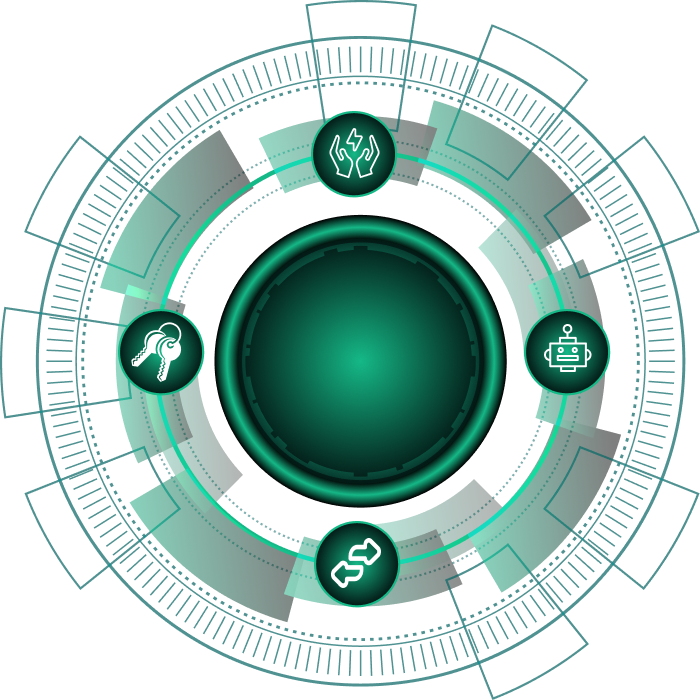
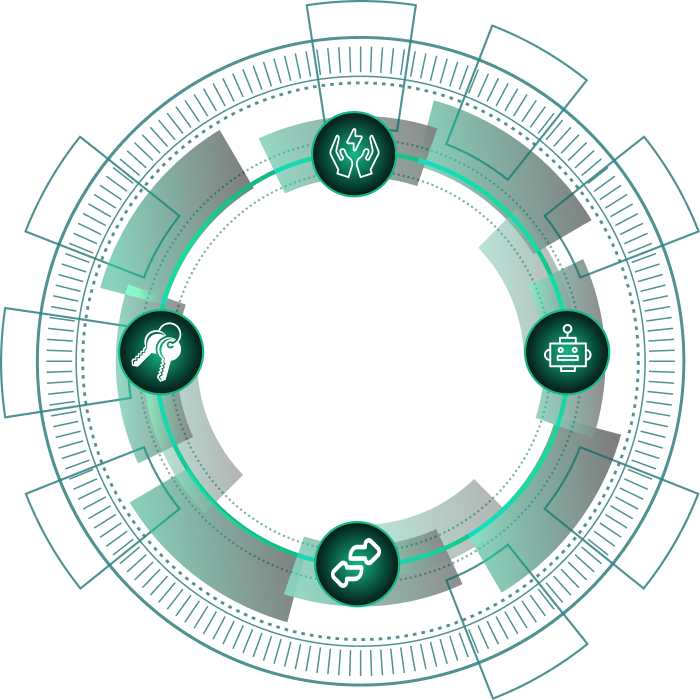
update

Changed region(s): [[0.3, 0.3, 0.75, 0.75]]

diff --git a/src/components/Wallet.jsx b/src/components/Wallet.jsx
@@ -1,8 +1,14 @@
 import React, { useState } from 'react';
-import { Col, Container, Row, Tab, Nav } from 'react-bootstrap'
-import SectionTitle from './SectionTitle'
+import { Col, Container, Row, Tab, Nav } from 'react-bootstrap';
+import SectionTitle from './SectionTitle';
 import WalletRightImg from '../assets/img/trading_wallet_right-img.png';
-export default function Wallet(){
+import Eip from '../assets/img/eip.png';
+import key from '../assets/img/key.png';
+import eip_arrow from '../assets/img/eip_arrow.png';
+import self from '../assets/img/self-icon.png';
+import automation from '../assets/img/automation_icon.png';
+
+export default function Wallet() {
     const Title = 'Security';
     const Desc ='Your Assets, Your Control. We never store your private keys.';
     const BtnText ='Read More';
@@ -20,7 +26,6 @@ export default function Wallet(){
     const BtnText4 ='Read More';
     const Btnlink4 ='https://google.com';
 
-
     const [rotationAngle, setRotationAngle] = useState('0deg');
 
     const handleTabClick = (tabKey) => {
@@ -28,12 +33,12 @@ export default function Wallet(){
         let newRotationAngle = '0deg';
 
         switch (tabKey) {
-            case 'frist':
+            case 'first':
                 newRotationAngle = '0deg';
                 break;
-                case 'second':
-                    newRotationAngle = '90deg';
-                    break;
+            case 'second':
+                newRotationAngle = '90deg';
+                break;
             case 'third':
                 newRotationAngle = '180deg';
                 break;
@@ -48,7 +53,46 @@ export default function Wallet(){
 
         setRotationAngle(newRotationAngle);
     };
-    return(
+
+    const customStyles = {
+        marginTop: 
+            rotationAngle === '0deg' ? '-9px' :
+            rotationAngle === '90deg' ? '-20px' :
+            rotationAngle === '180deg' ? '15px' :
+            rotationAngle === '270deg' ? '21px' : '0px',
+    
+        marginLeft: 
+            rotationAngle === '0deg' ? '-12px' :
+            rotationAngle === '90deg' ? '7px' :
+            rotationAngle === '180deg' ? '10px' :
+            rotationAngle === '270deg' ? '-8px' : '0px',            
+    };
+    const mediaQueryStyles = {
+        '@media (max-width: 992px)': {
+            // Apply styles for devices with a maximum width of 992px
+            marginTop: 
+                rotationAngle === '0deg' ? '-5px' :
+                rotationAngle === '90deg' ? '-9px' :
+                rotationAngle === '180deg' ? '15px' :
+                rotationAngle === '270deg' ? '21px' : '0px',
+        
+            marginLeft: 
+                rotationAngle === '0deg' ? '-5px' : 
+                rotationAngle === '90deg' ? '-12px' :
+                rotationAngle === '180deg' ? '10px' :
+                rotationAngle === '270deg' ? '-8px' : '0px',
+        },
+    };
+    
+
+    const combinedStyles = {
+        transform: `rotate(${rotationAngle})`,
+        transition: 'transform 0.5s ease-in-out',
+        ...customStyles, // Include the custom styles
+        ...mediaQueryStyles,
+    };
+
+    return (
         <div className="wallet__area" id='wallet'>
             <Container>
                 <SectionTitle 
@@ -96,29 +140,30 @@ export default function Wallet(){
                                 <img
                                     src={WalletRightImg}
                                     alt="Wallet Image"
-                                    style={{ transform: `rotate(${rotationAngle})`, transition: 'transform 0.5s ease-in-out' }}
+                                    style={combinedStyles}
                                 />
-                                <div className="all_click_icons" style={{ transform: `translate(-47%, -48%) rotate(${rotationAngle})`,  transition: 'transform 0.5s ease-in-out' }}>
+                                <div className="all_click_icons" style={{ transform: `translate(-50%, -50%) rotate(${rotationAngle})`,  transition: 'transform 0.5s ease-in-out' }}>
                                     <Nav.Link eventKey="first" className='sc' onClick={() => handleTabClick('first')}>
-                                        sc
+                                        <img src={key} alt="" />
                                     </Nav.Link>
                                     <Nav.Link eventKey="second" className='ss' onClick={() => handleTabClick('second')}>
-                                        ss
+                                    <img src={eip_arrow} alt="" />
                                     </Nav.Link>
                                     <Nav.Link eventKey="third" className='au' onClick={() => handleTabClick('third')}>
-                                        au
+                                    <img src={automation} alt="" />
                                     </Nav.Link>
                                     <Nav.Link eventKey="four" className='eff' onClick={() => handleTabClick('four')}>
-                                        eff
+                                    <img src={self} alt="" />
                                     </Nav.Link>
                                 </div>
-                                <span className='eip'>EIP 4337</span>
+                                <span className='eip'>
+                                    <img src={Eip} alt="" />
+                                </span>
                             </figure>
                         </Col>
                     </Row>
                 </Tab.Container>
             </Container>
-           
         </div>
     );
 }

diff --git a/src/assets/scss/_main.scss b/src/assets/scss/_main.scss
@@ -262,10 +262,6 @@
         position: relative;
         z-index: 1;
         margin-bottom: 0;
-        @include xxxl{
-            margin-left: 1%;
-            margin-right: -10%;
-        }
        
         @include xxl{
             margin-left: 10%;
@@ -283,6 +279,7 @@
         }
         & img{
             transition: all .3s ease-in-out;
+
         }
     }
     & .section__title{
@@ -294,10 +291,10 @@
 }
 .eip {
     position: absolute;
-    width: max-content;
+    max-width:40% ;
     left: 50%;
     top: 50%;
-    margin-left: -30px;
+    transform: translate(-50%, -50%);
 }
 /* aplication__area CSS */
 
@@ -693,43 +690,32 @@ h2.accordion-header {
 button.accordion-button {
     background: transparent !important;
 }
-/* Faq__area CSS */
 
+/* Faq__area CSS */
 .all_click_icons {
     position: absolute;
     top: 50%;
     left: 50%;
     width: 100%;
     height: 100%;
-    transform: translate(-50%, -50%) scale(.71) ;
+    transform: translate(-50%, -50%);
+
 }
 @media(max-width:1200px) and (min-width:992px){
     .all_click_icons {
         transform: translate(-50%, -50%);
     }
 }
-@media(max-width:992px) and (min-width:768px){
-    .all_click_icons {
-        width: 400px;
-        height: 400px;
-        transform: translate(-50%, -50%);
-    }
-}
-@media(max-width:767px){
-    .all_click_icons {
-        width: 360px;
-        height: 360px;
-        transform: translate(-50%, -50%);
-    }
-}
+
 figure.w_i {
     position: relative;
 }
 
+
 .all_click_icons .sc {
     position: absolute;
-    top: 50%;
-    left: 0;
+    top: 52%;
+    left: 103px;
     width: 84px;
     height: 84px;
     margin-top: -51px;
@@ -737,12 +723,16 @@ figure.w_i {
     line-height: 84px;
     border-radius: 50%;
     opacity: 0;
+    @include mmd{
+        top: 51%;
+        left: 28px;
+    }
 }
 
 .all_click_icons .ss {
     position: absolute;
-    bottom: 0;
-    left: 50%;
+    bottom: 87px;
+    left: 52%;
     width: 84px;
     height: 84px;
     margin-left: -51px;
@@ -750,12 +740,16 @@ figure.w_i {
     line-height: 84px;
     border-radius: 50%;
     opacity: 0;
+    @include mmd{
+        left: 51%;
+        bottom: 18px;
+    }
 }
 
 .all_click_icons .au {
     position: absolute;
-    top: 50%;
-    right: 0;
+    top: 51%;
+    right: 79px;
     width: 84px;
     height: 84px;
     margin-top: -51px;
@@ -763,12 +757,16 @@ figure.w_i {
     line-height: 84px;
     border-radius: 50%;
     opacity: 0;
+    @include mmd{
+        top: 51%;
+        right: 38px;
+    }
 }
 
 .all_click_icons .eff {
     position: absolute;
-    top: 0;
-    left: 50%;
+    top: 97px;
+    left: 52%;
     width: 84px;
     height: 84px;
     margin-left: -51px;
@@ -776,4 +774,8 @@ figure.w_i {
     line-height: 84px;
     border-radius: 50%;
     opacity: 0;
+    @include mmd{
+        left: 50%;
+        top: 20px;
+    }
 }
